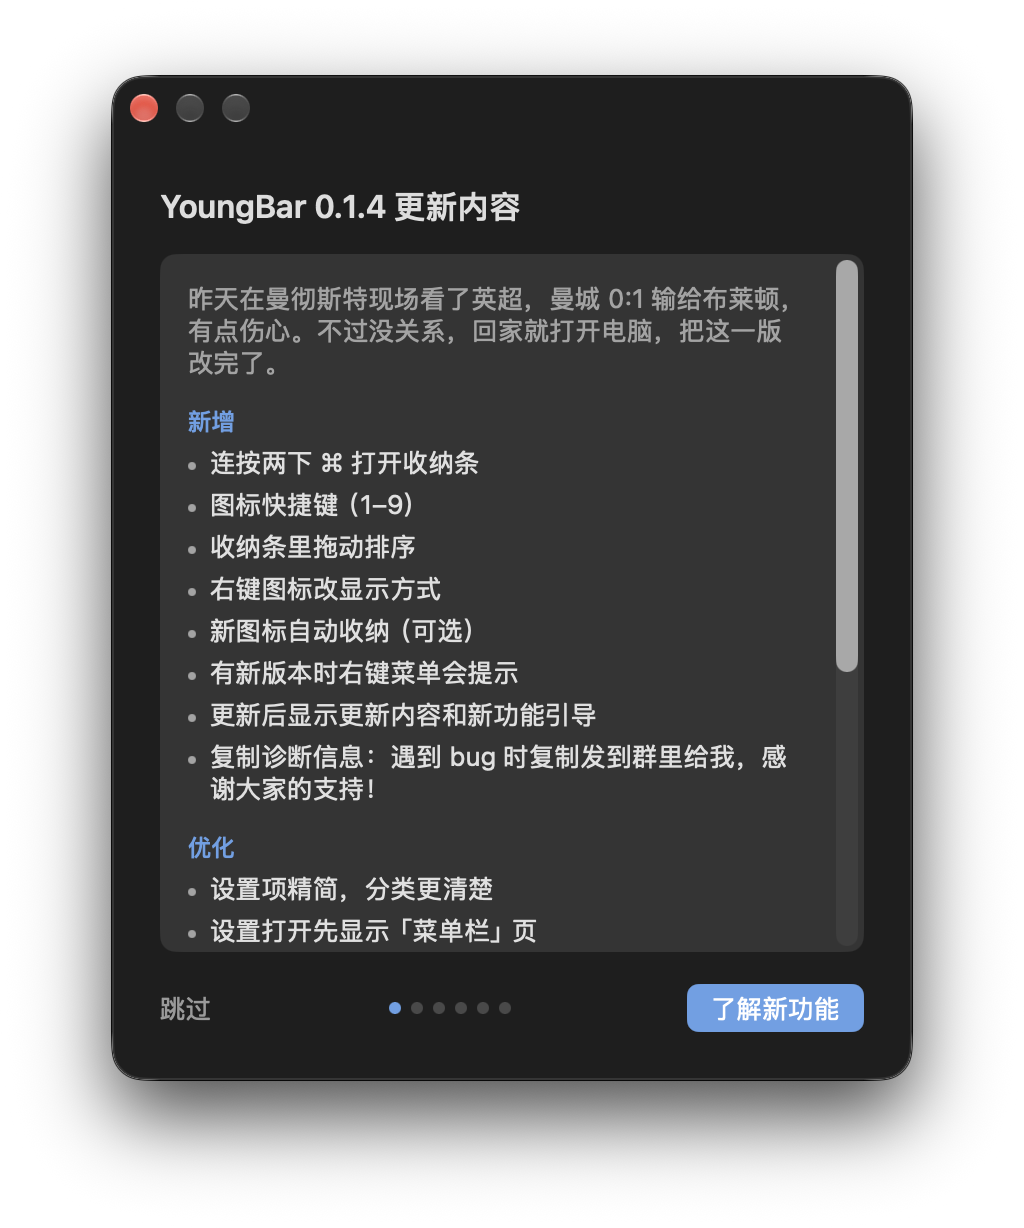
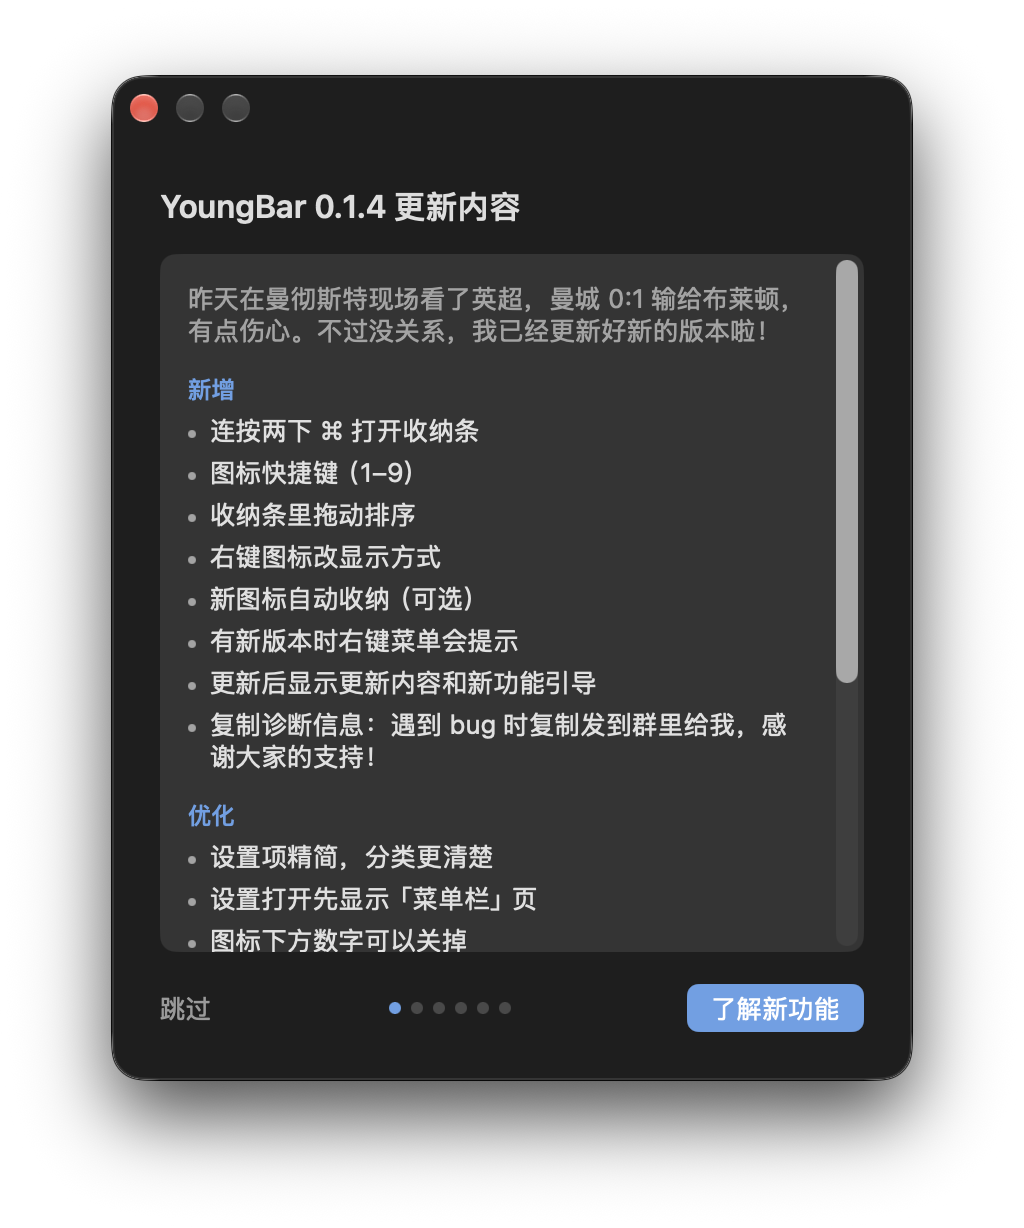
feat: 更新内容与新功能引导跟随 YoungBar 设置的语言
与使用引导一致；之前跟随系统语言，系统英文、YoungBar 中文时同一次更新里中英混杂。

Changed region(s): [[0.1875, 0.2785, 0.7812, 0.7736], [0.4688, 0.2476, 0.7812, 0.2785], [0.8125, 0.5261, 0.8438, 0.557]]

diff --git a/Sources/YoungBar/WhatsNew.swift b/Sources/YoungBar/WhatsNew.swift
@@ -10,8 +10,8 @@ import YoungBarCore
 /// what changed, one page at a time; either can be skipped. Shown once
 /// after an update and from the ••• menu any time.
 ///
-/// Its text follows the system language (the changelog has a Chinese and
-/// an English half), not YoungBar's own language setting.
+/// Its text follows YoungBar's language setting, like the guide before it
+/// (the changelog has a Chinese and an English half).
 @MainActor
 @Observable
 final class UpdateIntroModel {
@@ -23,11 +23,9 @@ final class UpdateIntroModel {
     var version = ""
     var notes: [ReleaseNotes.Block] = []
     var theme: ThemeColor = .blue
-    var english = UpdateIntroModel.systemIsEnglish
+    var english = L10n.current == .english
     @ObservationIgnored var setAutoHideNew: (Bool) -> Void = { _ in }
     @ObservationIgnored var close: () -> Void = {}
-
-    static var systemIsEnglish: Bool { !(Locale.preferredLanguages.first?.hasPrefix("zh") ?? false) }
 
     func t(_ chinese: String, _ english: String) -> String { self.english ? english : chinese }
 
@@ -177,12 +175,12 @@ extension BarApp {
     var bundledReleaseNotes: [ReleaseNotes.Block]? {
         guard let url = Bundle.main.url(forResource: "ReleaseNotes", withExtension: "md"),
               let text = try? String(contentsOf: url, encoding: .utf8) else { return nil }
-        let blocks = ReleaseNotes.blocks(ReleaseNotes.localized(text, preferredLanguages: Locale.preferredLanguages))
+        let blocks = ReleaseNotes.blocks(ReleaseNotes.localized(text, preferredLanguages: ReleaseNotes.languages(english: L10n.current == .english)))
         return blocks.isEmpty ? nil : blocks
     }
 
-    /// The shortcut in the tour's language (it follows the system's, not
-    /// YoungBar's setting, so `hotKeyDisplay` can't be used as is).
+    /// The shortcut in the tour's language (a parameter, so the self-test
+    /// can show both languages whatever the setting).
     func shortcutForTour(english: Bool) -> String {
         guard let hotKey else { return english ? "the shortcut (none set)" : "快捷键（未设置）" }
         if hotKey.isDoubleTap {

diff --git a/Sources/YoungBar/Updater.swift b/Sources/YoungBar/Updater.swift
@@ -60,7 +60,7 @@ struct UpdateView: View {
                     .foregroundStyle(.secondary)
                     .fixedSize(horizontal: false, vertical: true)
                 ScrollView {
-                    NotesView(blocks: ReleaseNotes.blocks(ReleaseNotes.localized(notes, preferredLanguages: Locale.preferredLanguages)),
+                    NotesView(blocks: ReleaseNotes.blocks(ReleaseNotes.localized(notes, preferredLanguages: ReleaseNotes.languages(english: L10n.current == .english))),
                               accent: theme == .clear ? .accentColor : Color(nsColor: theme.accent))
                         .padding(14)
                 }

diff --git a/Sources/YoungBarCore/ReleaseNotes.swift b/Sources/YoungBarCore/ReleaseNotes.swift
@@ -23,6 +23,9 @@ public enum ReleaseNotes {
     /// marker.
     public static let englishMarker = "# English"
 
+    /// The preference list `localized` reads, from a plain language choice.
+    public static func languages(english: Bool) -> [String] { [english ? "en" : "zh-Hans"] }
+
     /// The half for the reader: English unless their first preferred
     /// language is Chinese. A body without the marker is returned whole.
     public static func localized(_ markdown: String, preferredLanguages: [String]) -> String {

diff --git a/AGENTS.md b/AGENTS.md
@@ -39,7 +39,7 @@ Sources/YoungBar/
   main.swift            AppDelegate、刷新节奏、控制条、收纳条、菜单、排序（~1400 行）
   ShelfKeyboard.swift   收纳条键盘导航、数字键 1–9（ShelfPanel，非激活面板也能拿键盘焦点；没有搜索）
   ShelfItems.swift      收纳条图标：拖动排序（只改保存的顺序，不 reveal）、右键改显示方式
-  WhatsNew.swift        更新后第一次启动：先「本次更新内容」，再一步步的新功能引导（可跳过）；跟随**系统语言**。引导页在 `UpdateIntroModel.steps` 里按版本写，没写的版本只显示更新内容
+  WhatsNew.swift        更新后第一次启动：先「本次更新内容」，再一步步的新功能引导（可跳过）；和使用引导一样跟随 **YoungBar 设置里的语言**。引导页在 `UpdateIntroModel.steps` 里按版本写，没写的版本只显示更新内容
   NotesView.swift       更新内容 / 更新窗口里的说明，按「区块 + 短句」绘制（YoungBarCore 的 ReleaseNotes.blocks）
   HotKey.swift          全局快捷键：组合键走 Carbon；默认「连按两下 ⌘」用全局/本地事件监视器（YoungBarCore 的 DoubleTapDetector）
   NotchOverflow.swift   被 macOS « 收走 / 被刘海挡住的图标；显示器变化时重装控件
@@ -88,7 +88,7 @@ Vendor/
 - **混合结构**：设置窗口内容用 SwiftUI（`Form` + `.formStyle(.grouped)`，对齐 System Settings 的间距、对齐和控件），菜单栏控件、收纳条、右键菜单和所有改菜单栏的逻辑保持 AppKit。
 - 设置页里不要再手写坐标；新选项就是 `Section` 里加一行：名称在左、控件在右、说明用第二个 `Text`。布尔值用开关。
 - **选项要少**（0.1.4 用户要求）：能定成合理默认的就不做开关。0.1.4 去掉了：点击 ••• 的方式、始终显示收纳条、点击空白处展开、放不下的图标进收纳条（固定开）、自动收起秒数（固定 20 秒）、主题应用范围（固定全部）、左键显示菜单、自动检查更新开关、刷新列表按钮；权限行只在未授权时出现。加新开关前先想能不能直接定默认。
-- **更新日志**：`docs/RELEASE-<版本>.md` 先中文、再单独一行 `# English`、再英文（GitHub 两段都显示，app 按系统语言只显示一段）。「新增 / 优化 / 移除 / 修复」每条一句话、十来个字（app 里原样显示）；开头可以有一段作者的话；「说明 / Notes / 校验」只在 GitHub 上看，app 会跳过。
+- **更新日志**：`docs/RELEASE-<版本>.md` 先中文、再单独一行 `# English`、再英文（GitHub 两段都显示，app 按 YoungBar 设置的语言只显示一段）。「新增 / 优化 / 移除 / 修复」每条一句话、十来个字（app 里原样显示）；开头可以有一段作者的话；「说明 / Notes / 校验」只在 GitHub 上看，app 会跳过。
 - **少一步点击**：两到四个选项一律用分段按钮（`.pickerStyle(.segmented)`），一下就选中；弹出菜单只留给选项多的场合（目前只有语言）。
 - **保留个性**：窗口是带主题色的玻璃（`NSGlassEffectView`，染色 10%，内容区遮罩深色 46% / 浅色 58%），侧栏是系统侧栏毛玻璃 + 8% 主题色，顶部是主题角色大图；选中色、开关、分段按钮都跟随主题色。
 - **配色规则**：蓝 / 粉 / 黄在 OKLCH 里取同一亮度和彩度，只换色相（强调色 L 0.70 C 0.13，收纳条色 L 0.55 C 0.12）。新增配色也按这个规则算，不要单独调某个颜色更亮。收纳条 = 系统毛玻璃 + 主题色 × 不透明度（`stripOpacity`，30–100）。

diff --git a/docs/STATUS.md b/docs/STATUS.md
@@ -78,7 +78,7 @@
 | 更新后先走引导 | ✅ 模拟从 0.1.3 升级（`lastLaunchedVersion=0.1.3` 后启动）：先弹出使用引导，授权那步显示「已授权」；点「完成」（Finder 在前台时一次真实点击就生效）后接着弹出更新内容。引导第 3 步改为「或连按两下 ⌘」 | ![引导](images/guide-after-update-0.1.4.png) |
 | 旧版更新窗口 | ✅ 中英分隔改为单独一行 `# English`：0.1.2/0.1.3 的更新窗口会把发布说明原样显示，隐藏注释会露出来，标题则显示为干净的「English」 | 单元测试 `picksTheReadersLanguage` |
 | 新功能引导 | ✅ 更新内容页点「了解新功能」进入 5 页引导（连按两下 ⌘ / 数字键 / 拖动与右键 / 新图标自动收纳 / 更新提示与反馈），每页有跳过、上一步、下一步；第 1 页真的连按两下 ⌘ 后显示「成功打开了收纳条」；第 4 页的开关直接改设置 | `extrastest.json`：`tourSteps:5`、`tourSawShortcut:true`；![引导](images/update-tour-0.1.4.png) |
-| 中英文 | ✅ 更新日志一个文件两段（单独一行 `# English` 分隔；不用隐藏注释，因为 0.1.2/0.1.3 的更新窗口会把它原样显示出来），更新内容和引导跟随**系统语言**（不是 YoungBar 的语言设置）。本机系统首选 en-GB，所以本机显示英文 | `AppleLanguages: en-GB, zh-Hans-CN`；`notesLanguageEnglish:true`；单元测试 `picksTheReadersLanguage`；![英文](images/whats-new-0.1.4-en.png) |
+| 中英文 | ✅ 更新日志一个文件两段（单独一行 `# English` 分隔；不用隐藏注释，因为 0.1.2/0.1.3 的更新窗口会把它原样显示出来），更新内容和新功能引导跟随 **YoungBar 设置里的语言**，和前面的使用引导一致。**更正**：第一版跟随系统语言，本机系统首选 en-GB 而 YoungBar 设为中文，同一次更新里使用引导是中文、更新内容是英文，用户要求统一 | 本机（YoungBar 设为中文）更新内容显示中文；单元测试 `picksTheReadersLanguage`；![英文](images/whats-new-0.1.4-en.png) |
 | 复制诊断信息 | ✅ ••• 菜单一项：复制 8 行纯文本（版本、macOS、机型、屏幕/刘海、权限与隐藏状态、快捷键、控件位置、各状态图标名单）并弹窗显示内容 | `extrastest.json`：`reportLines:8`、`report` |
 | 收纳条图标右键 | ✅ 菜单列出另外两种状态和「在设置中调整…」；选「始终隐藏」后该图标离开收纳条；测试后恢复 | `menuTitles`、`modeAfterMenu:2`、`leftStrip`、`restored` |
 | 数字显示开关 | ✅ 「图标下方显示数字」默认开，**点击 •••、悬停、快捷键打开都显示**；关掉后数字键照样能打开。**更正**：第一版只在快捷键打开时显示，用户点击打开看不到数字（用户报告） | `keyboardtest.json`：真实点击控件 `clickOpened`、`clickNumbersShown`、`clickStripIsKey`、真实 Esc `clickClosedByRealEsc`；![点击打开](images/strip-numbers.png) |
